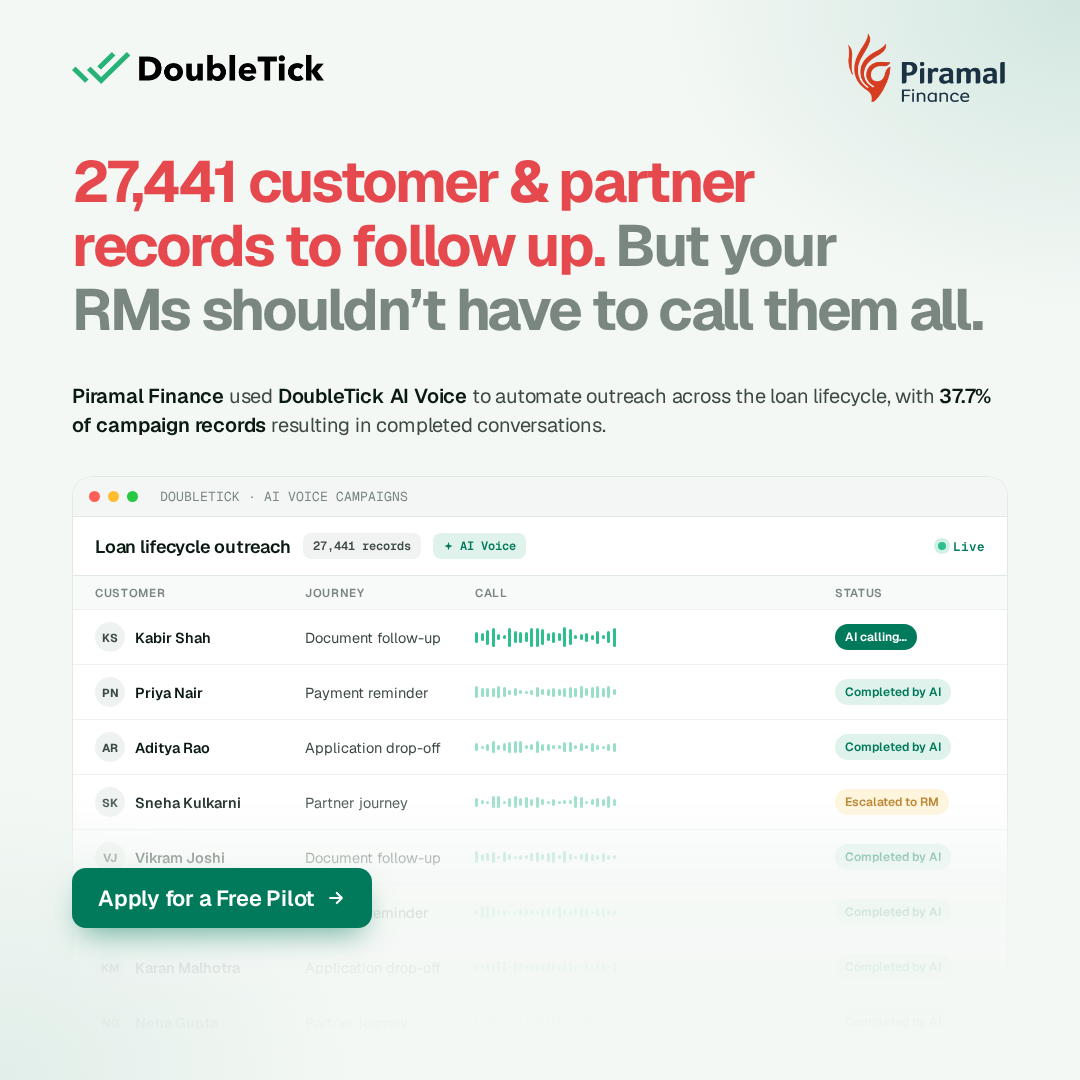
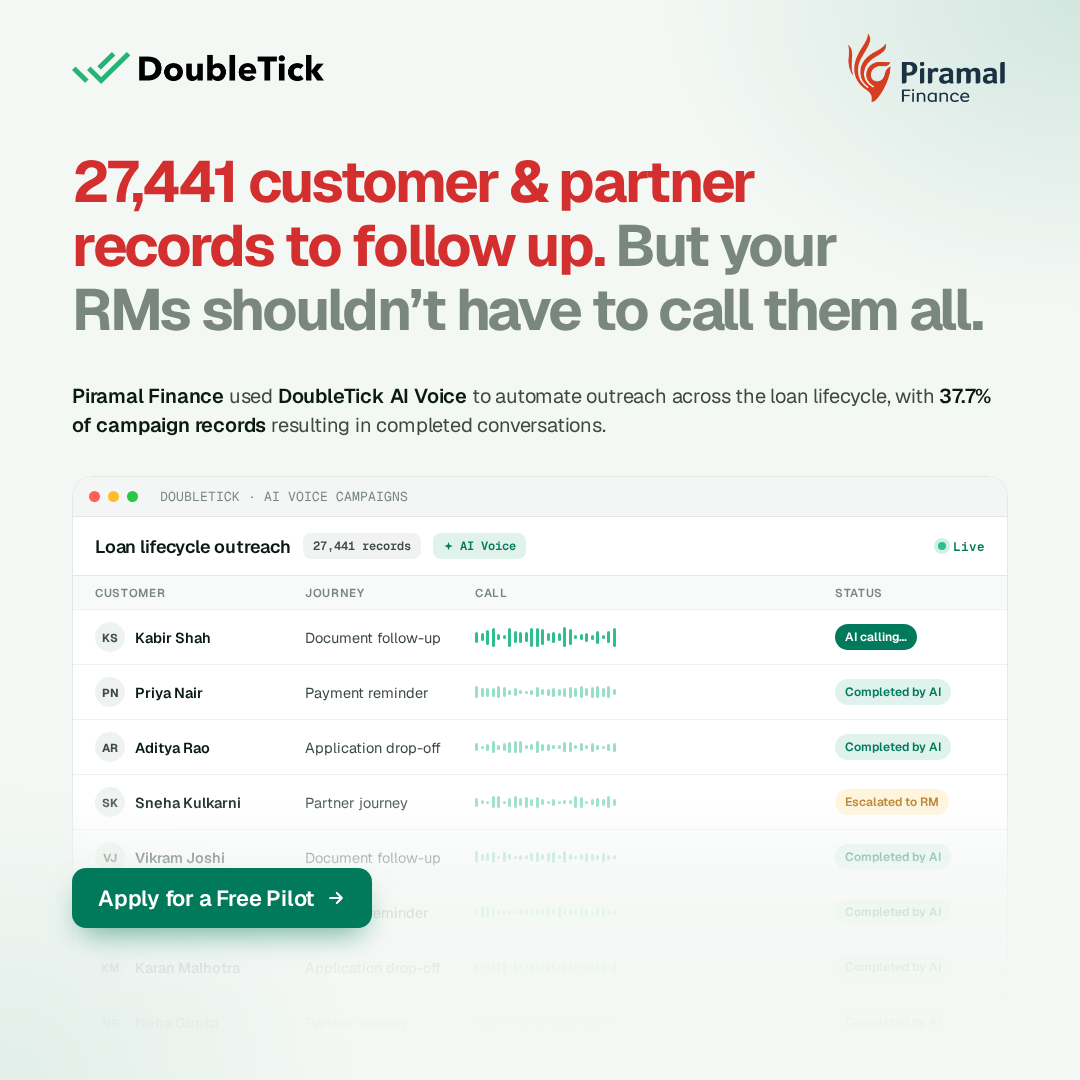
feat: use #D32F2F for red in Piramal records ad
Claude-Session: https://claude.ai/code/session_013Hi5o4KgvuLbKTeGkStAKX

Changed region(s): [[0.0611, 0.1528, 0.7028, 0.2444]]

diff --git a/ads/doubletick-case-piramal-dark/index.html b/ads/doubletick-case-piramal-dark/index.html
@@ -26,7 +26,7 @@
   .client img { height: 92px; width: auto; margin: -18px -14px; mix-blend-mode: multiply; }
 
   h1 { left: 72px; right: 72px; top: 150px; font-size: 58px; line-height: 1.1; letter-spacing: -0.04em; font-weight: 700; }
-  h1 .n { color: #E5484D; }
+  h1 .n { color: #D32F2F; }
   h1 .m { color: var(--mute); }
   .sub { left: 72px; right: 72px; top: 382px; font-size: 20px; line-height: 1.45; color: #3D4A44; letter-spacing: -0.01em; }
   .sub b { color: var(--ink); font-weight: 600; }
